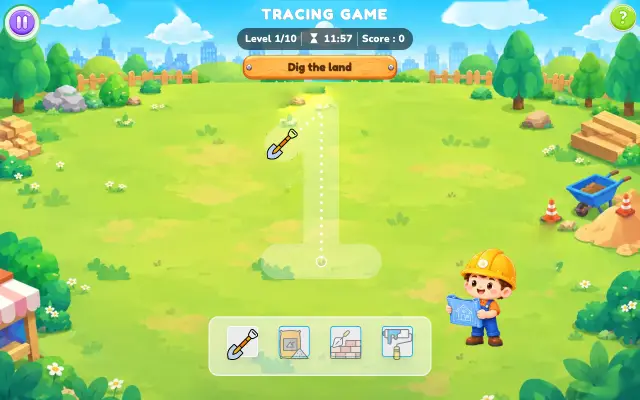
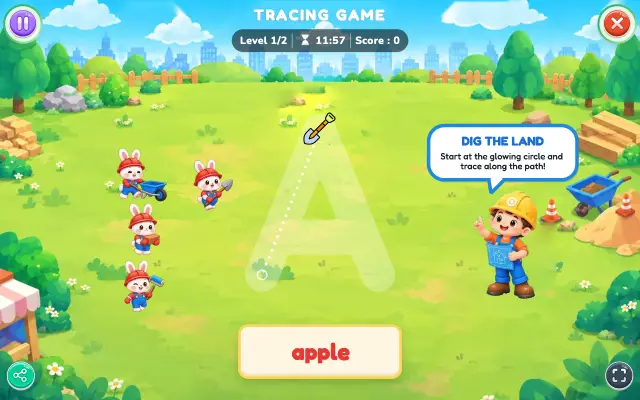
Use the tracing character game preview link

diff --git a/main.js b/main.js
@@ -9,10 +9,15 @@ const GAMES = [
     { slug: 'hungry-monsters', name: 'Hungry Monsters', topic: 'Multiplication' },
     { slug: 'division-derby', name: 'Division Derby', topic: 'Division' },
     { slug: 'math-munch', name: 'Math Munch', topic: 'Prime numbers' },
-    { slug: 'tracing-game', name: 'Tracing Game', topic: 'Letter tracing' },
+    {
+        slug: 'tracing-game',
+        name: 'Tracing Game',
+        topic: 'Letter tracing',
+        url: 'https://content.dev.eklavya.me/devek.designer/tracing-character-game-preview/index.html',
+    },
 ]
 
-const gameUrl = (game) => `${GAME_BASE}${game.slug}-phaser/index.html`
+const gameUrl = (game) => game.url || `${GAME_BASE}${game.slug}-phaser/index.html`
 
 // render the games grid
 const grid = document.getElementById('games-grid')
